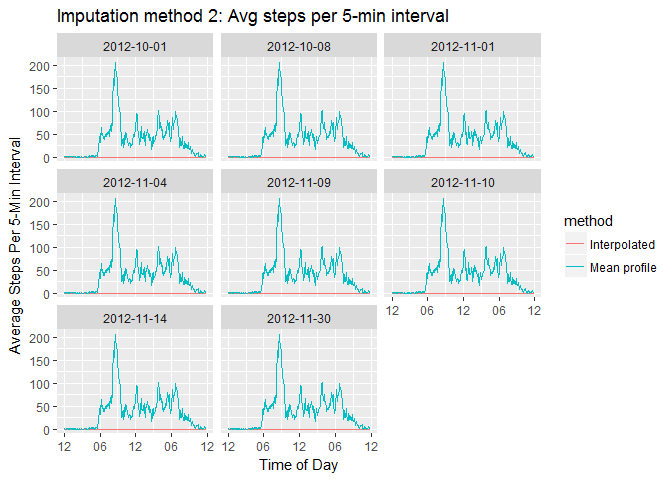
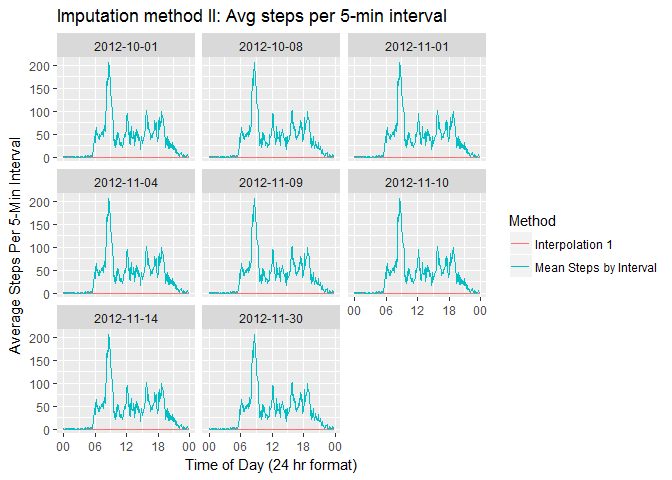
Version 1.0 of github doc w/ imputation by interpolation

diff --git a/Clarpaul_Reproducible_Research_PA1.md b/Clarpaul_Reproducible_Research_PA1.md
@@ -147,8 +147,7 @@ stepsbyinttm <- stepsbyintchar %>% transmute(plottime = as.POSIXct(plottime, for
 # plot average number of steps taken over course of day, with time shown in clock hours
 (stepTimeSeriesAvg <- ggplot(stepsbyinttm, aes(x = plottime, y = 5*StepsPerMin)) + geom_line() +
         scale_x_datetime(date_labels = "%I %p") + labs(x = "Time of Day",
-        y = "Average Steps Per 5-Min Interval", 
-        title = "Average steps per 5-min interval throughout day"))
+        y = "Average Steps Per 5-Min Interval", title = "Average steps per 5-min interval throughout day"))
 ```
 
 ![](Clarpaul_Reproducible_Research_PA1_files/figure-markdown_github/stepTimeSeriesAvg-1.png)
@@ -158,15 +157,15 @@ stepsbyinttm <- stepsbyintchar %>% transmute(plottime = as.POSIXct(plottime, for
 #### 5. Report the 5-minute interval with maximum average steps
 
 ``` r
-(time_maxsteps <- stepsbyintchar[which.max(stepsbyintchar$StepsPerMin),])
+(time_maxsteps <- stepsbyintchar[which.max(stepsbyintchar$StepsPerMin), 3:2])
 ```
 
-    ## # A tibble: 1 × 3
-    ##    time StepsPerMin         plottime
-    ##   <chr>       <dbl>            <chr>
-    ## 1 08:35    41.23396 2012-10-01 08:35
+    ## # A tibble: 1 × 2
+    ##           plottime StepsPerMin
+    ##              <chr>       <dbl>
+    ## 1 2012-10-01 08:35    41.23396
 
-The time with maximum average steps is 08:35 on the 24-hour clock. During this interval, about 41.2 steps are taken per minute.
+The `interval` with maximum average steps is NULL. During this `interval`, an average of 41.2 steps are taken per minute.
 
 ------------------------------------------------------------------------
 
@@ -181,10 +180,11 @@ summary(activity$steps, na.rm = FALSE)
     ##    Min. 1st Qu.  Median    Mean 3rd Qu.    Max.    NA's 
     ##    0.00    0.00    0.00   37.38   12.00  806.00    2304
 
-Note that the number of `NA`s is exactly 8 days of missing data. To show that, we divide the total number of missing values by 24 hours per day and 12 intervals per hour, or 288 intervals per day:
+Note that the number of `NA`s is exactly 8 days of missing data. To show that, we divide the total number of missing values by 24 hours per day and 12 intervals per hour, equal to 288 intervals per day:
 
 ``` r
-(eight <- sum(is.na(activity$steps))/(12*24))
+num_NAs <- sum(is.na(activity$steps))
+(eight <- num_NAs/(12*24))
 ## [1] 8
 ```
 
@@ -196,11 +196,13 @@ with(activity, unique(date[is.na(steps)]))
 ## [6] "2012-11-10" "2012-11-14" "2012-11-30"
 ```
 
-We now create a new data set `activityimp` by replacing each missing `steps` value in `activity` with the value for the associated 5-minute interval computed by averaging across all days. Since we know the exact locations of all the `NA`s, we could replace the values rather simply. Instead, we use a more general procedure by following these steps:
+##### 6.1 Imputing missing values: method I
 
-1.  Use `is.na()` on `steps` in the `activity` data frame, subsetting on `interval`, to extract a vector of 2304 `interval` values associated with the NAs.
-2.  Use `match()` to match the `interval` values to those in the data frame of average steps vs. interval, and extract the indices in that data frame associated with the matches.
-3.  Use the indices to 'look up' the correct average value of `StepsPerMin` for every interval associated with an `NA`. Using `is.na()` again, put them in the right locations in the original data set (multiplied by 5).
+We now create a new data set `activityimp` by replacing each missing `steps` value in `activity` with the value for the associated 5-minute interval computed by averaging across all days (we call this the ***Mean Steps by Interval*** method of imputing the data). Since we know the exact locations of all the `NA`s, we could replace the values rather simply. Instead, we use a more general procedure by following these steps:
+
+1.  Use `is.na()` in the `activity` data frame to subset it on `steps` values which are `NA`, and select from it the vector of 2,304 associated `interval` values. These 2,304 `interval` values are not unique, as there are only 288 intervals per day.
+2.  `match()` the `interval` values from the `activity` data frame to those in `stepsbyint` (the data frame of average `StepsPerMin` by `interval`), 'looking up' the 2,304 index values associated with the NAs.
+3.  Use the indices to 'look up' the correct average value of `StepsPerMin` for every interval associated with an `NA`. Using `is.na()` again, put the `StepPerMin` (multiplied by 5) in the right locations in the original data set.
 
 ``` r
 # Create vector of interval values needing imputation
@@ -214,134 +216,121 @@ activityimp <- activity
 activityimp$steps[is.na(activity$steps)] <- 5*(stepsbyint$StepsPerMin[NAindices])
 ```
 
-We now evaluate a different scheme for replacement of missing values, which involves interpolation via application of a function called `na.approx` in the package `zoo`. We follow the method of user *'rndmacc'* on github [here](https://github.com/rndmacc/RepData_PeerAssessment1/blob/master/PA1_template.md).
+##### 6.2 Imputing missing values: method II
+
+We now evaluate a different scheme for replacement of missing values, which involves interpolation via application of a function called `na.approx()` in the package `zoo`. We follow the method of user ***rndmacc*** on github [here](https://github.com/rndmacc/RepData_PeerAssessment1/blob/master/PA1_template.md). (User ***rndmacc*** is another student in the **Reproducible Research** class.)
 
 ``` r
+# Load/install package
 if (!require(zoo)) {install.packages("zoo"); require(zoo)}
-activityimp_int <- activity
 # rndmacc says boundaries won't be interpolated unless start and end are set to 0
+activityimp_int <- activity
 activityimp_int[1,1] <- 0
 activityimp_int[nrow(activityimp_int),1] <- 0
 activityimp_int$steps <- na.approx(activityimp_int$steps)
 ```
 
-We now compare the results of interpolation to the mean profile imputation.
+We now compare the results of interpolation to the ***Mean Steps by Interval*** imputation.
 
 ``` r
 na_dates <- with(activity, unique(date[is.na(steps)]))
-activityimp$method <- rep("Mean profile", nrow(activityimp))
-activityimp_int$method <- rep("Interpolated", nrow(activityimp_int))
+activityimp$Method <- rep("Mean Steps by Interval", nrow(activityimp))
+activityimp_int$Method <- rep("Interpolation 1", nrow(activityimp_int))
 activityimp_full <- rbind(activityimp, activityimp_int)
 
 activityimp_fullposix <- transmute(activityimp_full, date, plottime =  as.POSIXct(paste("2012-10-01",
-        vtime(interval)), format = "%Y-%m-%d %H:%M"), StepsPerMin = steps/5, method) 
+        vtime(interval)), format = "%Y-%m-%d %H:%M"), StepsPerMin = steps/5, Method) 
 
 
-(ggplot(subset(activityimp_fullposix, date %in% na_dates), aes(plottime, 5*StepsPerMin, color = method)) + 
-                geom_line() +  facet_wrap(~date) + scale_x_datetime(date_labels = "%I") + 
-                labs(x = "Time of Day", y = "Average Steps Per 5-Min Interval", 
-                title = "Imputation method 2: Avg steps per 5-min interval"))
+(ggplot(subset(activityimp_fullposix, date %in% na_dates), aes(plottime, 5*StepsPerMin, color = Method)) + 
+                geom_line() +  facet_wrap(~date) + scale_x_datetime(date_labels = "%H") + 
+                labs(x = "Time of Day (24 hr format)", y = "Average Steps Per 5-Min Interval", 
+                title = "Imputation method II: Avg steps per 5-min interval"))
 ```
 
 ![](Clarpaul_Reproducible_Research_PA1_files/figure-markdown_github/imputation2-1.png)
 
-We can see here that *rndmacc's* interpolation scheme fails: because `steps` is close to 0 at the border between days (and NAs occur in blocks that are a single day long) it amounts to setting `steps` at or close to 0 for each block.
+We see here that this interpolation scheme fails: because `steps` is close to 0 at the border between days (and NAs occur only in blocks of one entire date), it amounts to setting `steps` at or close to 0 for each interpolated date.
 
-Better results might be obtained by interpolating across adjacent days. We start by using `tidyr` to `spread` the `activity` data frame into 'wide' format: a matrix with intervals across the columns, and one date per row.
+##### 6.3 Imputing missing values: method III
+
+Next we impute missing days by interpolating values from adjacent days. We start by using `tidyr` to `spread` the `activity` data frame into 'wide' format: a matrix with intervals across the columns, and one date per row.
 
 ``` r
 if (!require(tidyr)) {install.packages("tidyr"); require(tidyr)}
-head(activity)
-```
-
-    ##   steps       date interval
-    ## 1    NA 2012-10-01        0
-    ## 2    NA 2012-10-01        5
-    ## 3    NA 2012-10-01       10
-    ## 4    NA 2012-10-01       15
-    ## 5    NA 2012-10-01       20
-    ## 6    NA 2012-10-01       25
-
-``` r
+# Note: we turn the matrix into a tbl_df, for better printing; tbl_df is loaded with one of the
+# packages in Hadley's 'tidyverse'
 activity_matrix <- spread(data = activity, key = interval, value = steps) %>% tbl_df
 ```
 
-Note that there is no way to interpolate the first and last dates, as they are at the boundaries of the matrix:
+Note that there is no way to interpolate the first and last dates, as they are at the boundaries of the matrix. (Note that the last date is 2012-11-30.) The other dates are surrounded by non-NA values.
 
 ``` r
-subset(activity_matrix, date %in% na_dates)[,1:10]
+subset(activity_matrix, date %in% na_dates, select = c(1, `830`:`915`))
 ```
 
-    ## # A tibble: 8 × 10
-    ##         date   `0`   `5`  `10`  `15`  `20`  `25`  `30`  `35`  `40`
-    ##        <chr> <int> <int> <int> <int> <int> <int> <int> <int> <int>
-    ## 1 2012-10-01    NA    NA    NA    NA    NA    NA    NA    NA    NA
-    ## 2 2012-10-08    NA    NA    NA    NA    NA    NA    NA    NA    NA
-    ## 3 2012-11-01    NA    NA    NA    NA    NA    NA    NA    NA    NA
-    ## 4 2012-11-04    NA    NA    NA    NA    NA    NA    NA    NA    NA
-    ## 5 2012-11-09    NA    NA    NA    NA    NA    NA    NA    NA    NA
-    ## 6 2012-11-10    NA    NA    NA    NA    NA    NA    NA    NA    NA
-    ## 7 2012-11-14    NA    NA    NA    NA    NA    NA    NA    NA    NA
-    ## 8 2012-11-30    NA    NA    NA    NA    NA    NA    NA    NA    NA
+    ## # A tibble: 8 × 11
+    ##         date `830` `835` `840` `845` `850` `855` `900` `905` `910` `915`
+    ##        <chr> <int> <int> <int> <int> <int> <int> <int> <int> <int> <int>
+    ## 1 2012-10-01    NA    NA    NA    NA    NA    NA    NA    NA    NA    NA
+    ## 2 2012-10-08    NA    NA    NA    NA    NA    NA    NA    NA    NA    NA
+    ## 3 2012-11-01    NA    NA    NA    NA    NA    NA    NA    NA    NA    NA
+    ## 4 2012-11-04    NA    NA    NA    NA    NA    NA    NA    NA    NA    NA
+    ## 5 2012-11-09    NA    NA    NA    NA    NA    NA    NA    NA    NA    NA
+    ## 6 2012-11-10    NA    NA    NA    NA    NA    NA    NA    NA    NA    NA
+    ## 7 2012-11-14    NA    NA    NA    NA    NA    NA    NA    NA    NA    NA
+    ## 8 2012-11-30    NA    NA    NA    NA    NA    NA    NA    NA    NA    NA
 
-But we can interpolate all the other NA rows:
+But we can interpolate all the other NA rows.
 
 ``` r
 activity_matrix_imp <- activity_matrix
 activity_matrix_imp[,-1] <- na.approx(object = activity_matrix[,-1], na.rm = FALSE)
-format(subset(activity_matrix_imp, date %in% na_dates)[,1:10], digits = 3, nsmall = 2)
+def_digits = getOption("digits")
+options(digits = 3)
+subset(activity_matrix_imp, date %in% na_dates, select = c(1, `830`:`915`))
 ```
 
-    ##         date    0    5   10   15   20   25    30   35   40
-    ## 1 2012-10-01   NA   NA   NA   NA   NA   NA    NA   NA   NA
-    ## 2 2012-10-08 0.00 0.00 0.00 0.00 0.00 6.50 14.00 0.00 0.00
-    ## 3 2012-11-01 0.00 0.00 0.00 0.00 0.00 0.00  0.00 0.00 0.00
-    ## 4 2012-11-04 0.00 0.00 0.00 0.00 0.00 0.00  0.00 0.00 0.00
-    ## 5 2012-11-09 0.00 0.00 0.00 0.00 0.00 0.00  0.00 0.00 0.00
-    ## 6 2012-11-10 0.00 0.00 0.00 0.00 0.00 0.00  0.00 0.00 0.00
-    ## 7 2012-11-14 0.00 0.00 0.00 0.00 0.00 0.00  0.00 0.00 0.00
-    ## 8 2012-11-30   NA   NA   NA   NA   NA   NA    NA   NA   NA
+    ## # A tibble: 8 × 11
+    ##         date `830` `835` `840` `845` `850` `855` `900` `905` `910` `915`
+    ##        <chr> <dbl> <dbl> <dbl> <dbl> <dbl> <dbl> <dbl> <dbl> <dbl> <dbl>
+    ## 1 2012-10-01    NA    NA    NA    NA    NA    NA    NA    NA    NA    NA
+    ## 2 2012-10-08 364.5 317.5 366.0 306.5 265.0 327.5  78.5   0.0 111.5   172
+    ## 3 2012-11-01 447.0 354.0 188.5  95.0 341.5  32.5   8.0  11.5  21.0   102
+    ## 4 2012-11-04  69.5  65.5  54.5 161.5 318.0 294.0 280.5 537.5 562.5   600
+    ## 5 2012-11-09  24.0   8.0  19.3  21.7  24.3  14.3   0.0   0.0  19.7     0
+    ## 6 2012-11-10  48.0   4.0  38.7  43.3  48.7  28.7   0.0   0.0  39.3     0
+    ## 7 2012-11-14  37.0   8.0   0.0   0.0   0.0   0.0   0.0   8.0  13.5     0
+    ## 8 2012-11-30    NA    NA    NA    NA    NA    NA    NA    NA    NA    NA
 
-To complete the imputation, we now set the first and last rows equal to the column means of the rest of the interpolated matrix.
+``` r
+options(digits = def_digits)
+```
+
+To complete the imputation, in the spirit of interpolation (i.e., making imputed rows depend on *local* data) we now set the first and last rows equal to the second and next-to-last rows.
 
 ``` r
 activity_matrix_imp2 <- activity_matrix_imp
-activity_matrix_imp2[1,-1] <- colMeans(activity_matrix_imp[,-1], na.rm = TRUE)
-activity_matrix_imp2[nrow(activity_matrix_imp),-1] <- colMeans(activity_matrix_imp[,-1], na.rm = TRUE)
-subset(activity_matrix_imp2, date %in% na_dates)[,1:10]
-```
-
-    ## # A tibble: 8 × 10
-    ##         date      `0`       `5`      `10`      `15`       `20`     `25`
-    ##        <chr>    <dbl>     <dbl>     <dbl>     <dbl>      <dbl>    <dbl>
-    ## 1 2012-10-01 1.542373 0.3050847 0.1186441 0.1355932 0.06779661 1.991525
-    ## 2 2012-10-08 0.000000 0.0000000 0.0000000 0.0000000 0.00000000 6.500000
-    ## 3 2012-11-01 0.000000 0.0000000 0.0000000 0.0000000 0.00000000 0.000000
-    ## 4 2012-11-04 0.000000 0.0000000 0.0000000 0.0000000 0.00000000 0.000000
-    ## 5 2012-11-09 0.000000 0.0000000 0.0000000 0.0000000 0.00000000 0.000000
-    ## 6 2012-11-10 0.000000 0.0000000 0.0000000 0.0000000 0.00000000 0.000000
-    ## 7 2012-11-14 0.000000 0.0000000 0.0000000 0.0000000 0.00000000 0.000000
-    ## 8 2012-11-30 1.542373 0.3050847 0.1186441 0.1355932 0.06779661 1.991525
-    ## # ... with 3 more variables: `30` <dbl>, `35` <dbl>, `40` <dbl>
-
-``` r
-activityimp_int2 <- gather(data = activity_matrix_imp2, key = interval, value = steps, -1, convert = TRUE)
-activityimp_int2 <- arrange(activityimp_int2, date) %>% select(interval, date, steps)
+activity_matrix_imp2[1,-1] <- activity_matrix_imp[2,-1]
+activity_matrix_imp2[nrow(activity_matrix),-1] <- activity_matrix[nrow(activity_matrix) - 1,-1]
 ```
 
 We now plot the results of this method of interpolation on the 8 interpolated days of data.
 
 ``` r
-activityimp_int2$method <- rep("Interpolated", nrow(activityimp_int2))
+activityimp_int2 <- gather(data = activity_matrix_imp2, key = interval, value = steps, -1, convert = TRUE)
+activityimp_int2 <- arrange(activityimp_int2, date) %>% select(interval, date, steps)
+
+activityimp_int2$Method <- rep("Interpolation 2", nrow(activityimp_int2))
 activityimp_full2 <- rbind(activityimp, activityimp_int2)
 
-activityimp_fullposix2 <- transmute(activityimp_full2, date, plottime =  as.POSIXct(paste("2012-10-01", vtime(interval)), 
-                        format = "%Y-%m-%d %H:%M"), StepsPerMin = steps/5, method) 
+activityimp_fullposix2 <- transmute(activityimp_full2, date, plottime =  as.POSIXct(paste("2012-10-01", 
+                vtime(interval)), format = "%Y-%m-%d %H:%M"), StepsPerMin = steps/5, Method) 
 
 
-(ggplot(subset(activityimp_fullposix2, date %in% na_dates), aes(plottime, 5*StepsPerMin, color = method)) + 
-                geom_line() +  facet_wrap(~date) + scale_x_datetime(date_labels = "%I") + 
-                labs(x = "Time of Day", y = "Average Steps Per 5-Min Interval", 
+(ggplot(subset(activityimp_fullposix2, date %in% na_dates), aes(plottime, 5*StepsPerMin, color = Method)) + 
+                geom_line() +  facet_wrap(~date) + scale_x_datetime(date_labels = "%H") + 
+                labs(x = "Time of Day (24 hr format)", y = "Average Steps Per 5-Min Interval", 
                 title = "Imputation method 3: Avg steps per 5-min interval"))
 ```
 
@@ -351,7 +340,7 @@ activityimp_fullposix2 <- transmute(activityimp_full2, date, plottime =  as.POSI
 
 #### 7. Evaluate distribution of Steps Per Day with imputed data
 
-Here we utilize the first method of imputing data (the **'Mean profile'** approach). As in section (2), we group our data by `date` and sum over `steps`.
+Here we utilize the first method of imputing data (the ***Mean Steps by Interval*** approach). As in section (2), we group our data by `date` and sum over `steps`.
 
 ``` r
 stepsbydtimp <- activityimp %>% group_by(date) %>% summarize(StepsPerDay = sum(steps, na.rm = FALSE))
